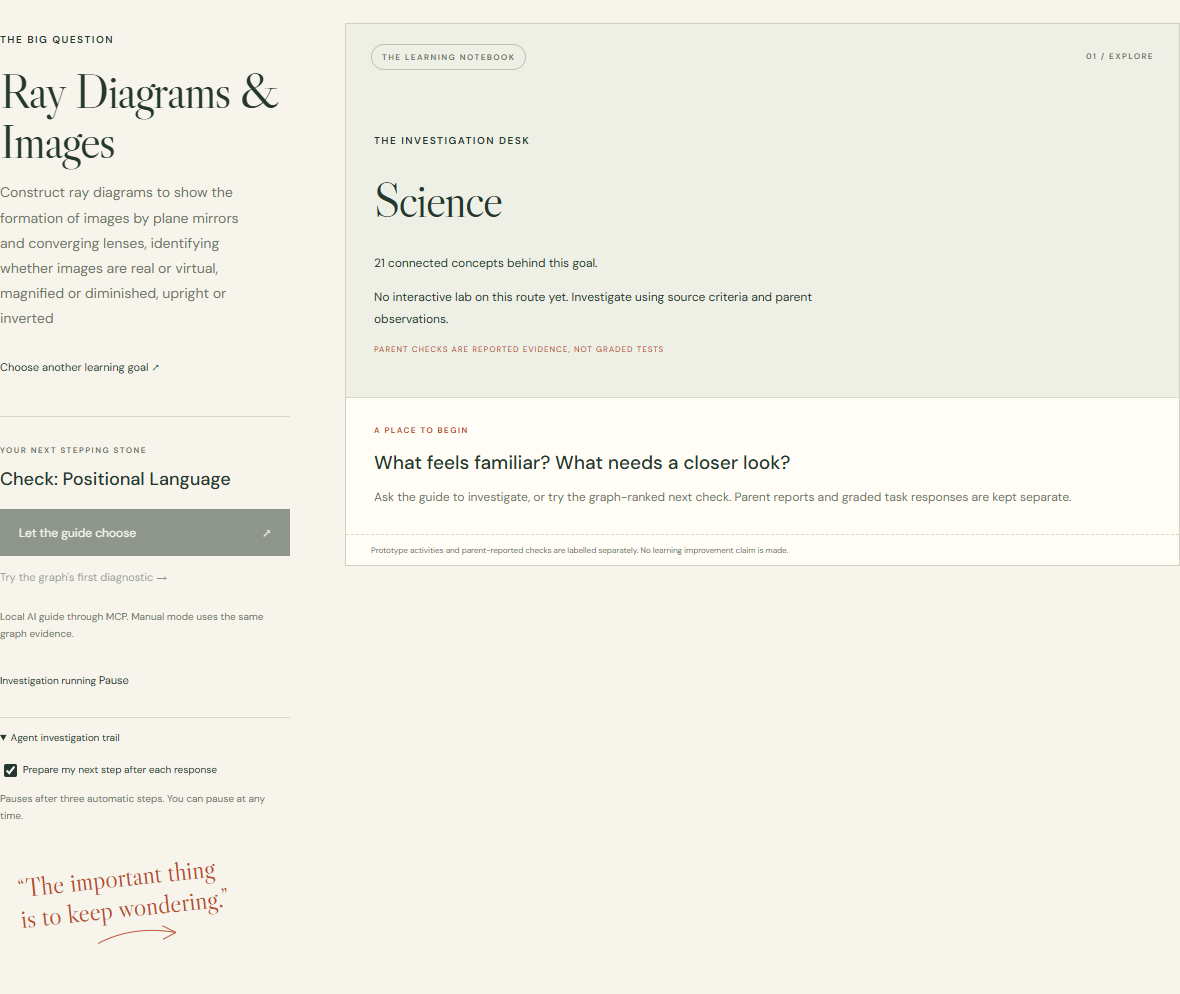
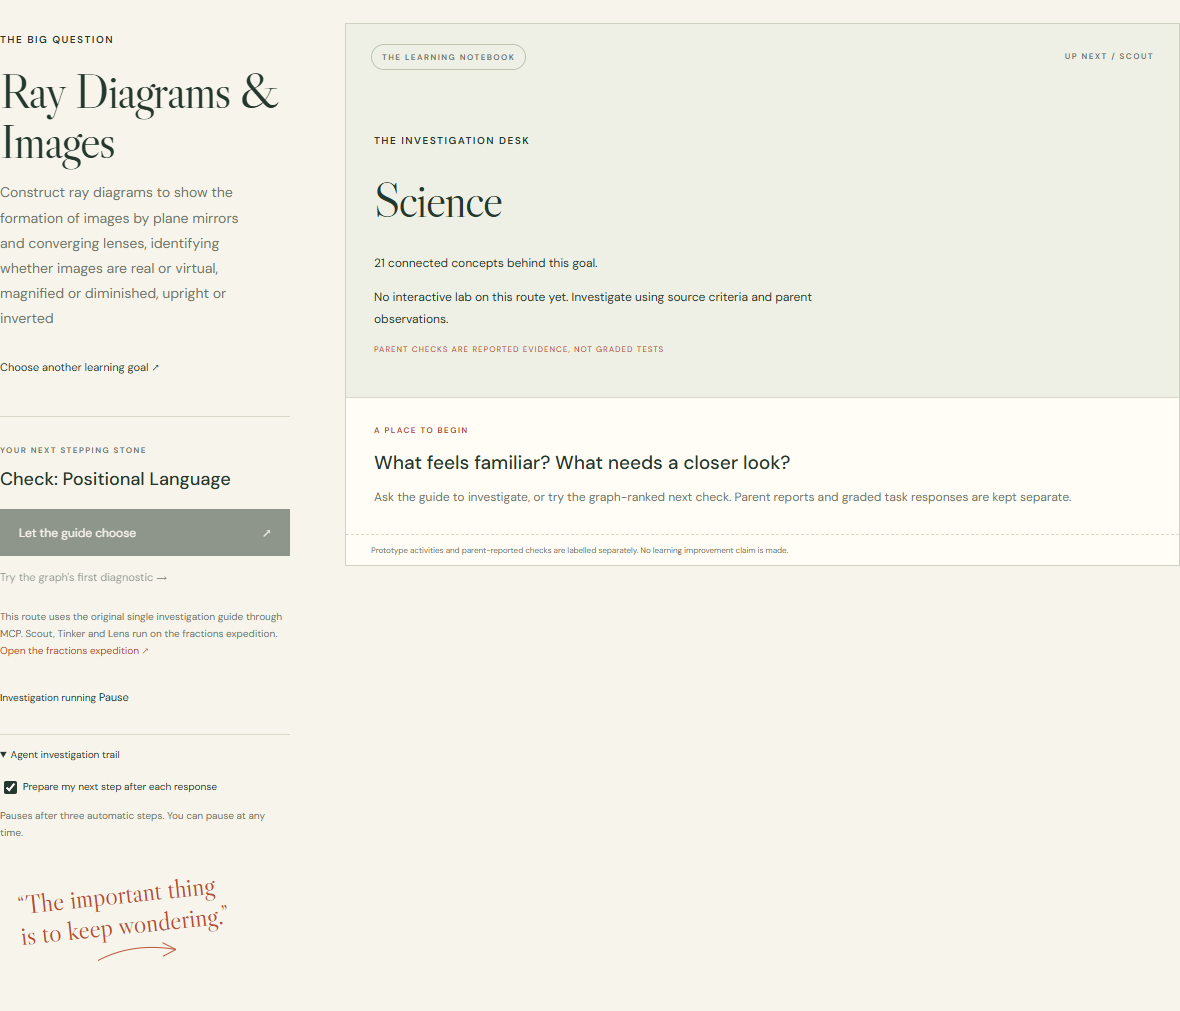
Fix stale UI text, number formatting, search ranking and the map focus on lesson routes

diff --git a/web/app.js b/web/app.js
@@ -53,12 +53,12 @@ function render(){
   $('reason').innerHTML=`<p><b>${esc(sc.title)}</b> was chosen by ${sc.chosen_by==='scout'?'Scout':'a manual click'} from ${sc.ranked.length} lessons FalkorDB ranked for this route.</p><p>${sc.reasons.map(esc).join('. ')}.</p><p class="witness">${sc.witness_concepts.map(esc).join(' → ')}</p><span class="source-label">LESSON CHECK / EXACT GRADING ON THE SERVER</span>`;
   $('candidates').innerHTML=sc.ranked.map(o=>`<div class="candidate">${o.graph_rank??'later'} / ${esc(o.title)} <small>${esc(o.concept_name)} · ${o.reasons.map(esc).join(' · ')}</small></div>`).join('');}
  drawGraph($('map-view'),mapPlan(),inspectConcept,{soft:$('show-soft').checked});
- const focus=plan.nodes.find(n=>n.id===selected?.concept);if(focus)inspectConcept(focus);
+ const focus=plan.nodes.find(n=>n.id===(lessonRoute()&&tutor?.concept||selected?.concept));if(focus)inspectConcept(focus);
  const queries=plan.graph_reasoning?.queries||[];
  $('query-info').innerHTML=`${plan.nodes.length} concepts in the complete hard closure. Reachability, coverage, shortest witnesses and ranking run in FalkorDB.<details class="native-queries"><summary>See the deciding queries and actual timings</summary>${queries.map(q=>`<div class="native-query"><b>${esc(q.name)}</b><small>${Number(q.server_ms).toFixed(3)} ms server / ${q.wall_ms} ms client wall / ${q.rows} rows</small><pre>${esc(q.cypher)}</pre><button class="text-button explain-button" data-explain>Show FalkorDB\u2019s execution plan</button><pre class="plan" hidden></pre></div>`).join('')}</details>`;
  $('evidence').textContent=JSON.stringify({graph:plan.graph,revision:plan.revision,fingerprint:plan.fingerprint,edges:plan.edges,soft_edges:plan.soft_edges,candidates:plan.candidates},null,2);
  $('manual').disabled=busy||!selected;$('agent').disabled=busy||!selected;atlas?.setRoute(plan);routeSummary();heroRoute();
- if(lessonRoute())renderLessonRoom();else{$('tutor-studio').hidden=true;$('tutor-queries').hidden=true;$('agent').innerHTML='Let the guide choose <span>↗</span>';$('manual').textContent='Try the graph\'s first diagnostic →';$('guide-note').textContent='Local AI guide through MCP. Manual mode uses the same graph evidence.';document.querySelectorAll('.autoguide,.autoguide+.small').forEach(x=>x.hidden=false);}
+ if(lessonRoute())renderLessonRoom();else{$('tutor-studio').hidden=true;$('tutor-queries').hidden=true;$('agent').innerHTML='Let the guide choose <span>↗</span>';$('manual').textContent='Try the graph\'s first diagnostic →';$('guide-note').innerHTML='This route uses the original single investigation guide through MCP. Scout, Tinker and Lens run on the fractions expedition. <button class="text-button inline-link" data-expedition>Open the fractions expedition \u2197</button>';$('guide-note').querySelector('[data-expedition]').onclick=()=>changeGoal(EXPEDITION);document.querySelectorAll('.autoguide,.autoguide+.small').forEach(x=>x.hidden=false);}
 }
 async function refresh(){plan=await api('plan');render();}
 function inspectConcept(n){
@@ -114,15 +114,15 @@ async function loadNotes(){const d=await api('notebook'),r=d.plan.route;
  $('parent-observations').innerHTML=(d.parent_observations||[]).map(o=>`<div class="observation"><span>↗</span><span>${esc(d.plan.nodes.find(n=>n.id===o.concept)?.name||o.concept)} / criterion ${o.criterion+1}</span><span>${esc(o.response)} / parent-reported</span></div>`).join('')||'<p class="small">No parent observations.</p>';
  $('trace').innerHTML=d.decisions.map(x=>`<div class="tool"><b>${esc(x.model)}</b> <small>${x.plan_fingerprint===d.plan.fingerprint?'current evidence revision':'historical decision / evidence revision changed'}</small><br>${esc(x.reason)}<pre>${esc(JSON.stringify(x.trace,null,2))}</pre>Runtime tokens: ${x.usage.input??'unknown'} input, ${x.usage.output??'unknown'} output. Digest ${esc(x.provenance?.model_digest?.slice(0,12)||'unknown')}.<details><summary>Unverified model rationale</summary>${esc(x.model_reason_unverified)}</details></div>`).join('')||'No investigation-agent decision recorded. Manual checks do not count as agent decisions.';
  if((d.role_decisions||[]).length&&!d.decisions.length)$('trace').innerHTML='';
- $('trace').insertAdjacentHTML('beforeend',(d.role_decisions||[]).map(x=>`<div class="tool"><b>${esc(ROLES[x.role]?.name||x.role)}</b> <small>${x.decisions.map(c=>`${c.chooser==='model'?'model '+esc(c.model):'rule-based, no model'} chose from ${c.options.length} options: ${esc(c.label)}${c.chooser==='model'&&c.rule_label!==undefined?(c.agrees_with_rule?' (same as the rule)':` (the rule would choose: ${esc(c.rule_label)})`):''}`).join(' / ')}</small><br>Tools exposed to this role: ${x.tools.map(esc).join(', ')}<details><summary>Tool trace and unverified model words</summary><pre>${esc(JSON.stringify(x.trace,null,2))}</pre>${x.decisions.map(c=>`<p>${esc(c.model_reason_unverified)}</p>`).join('')}</details></div>`).join(''));return d;
+ $('trace').insertAdjacentHTML('beforeend',(d.role_decisions||[]).map(x=>`<div class="tool"><b>${esc(ROLES[x.role]?.name||x.role)}</b> <small>${x.decisions.map(c=>`(${c.chooser==='model'?'local model '+esc(c.model):'rule-based, no model'}) chose from ${c.options.length} options: ${esc(c.label)}${c.chooser==='model'&&c.rule_label!==undefined?(c.agrees_with_rule?' (same as the rule)':` (the rule would choose: ${esc(c.rule_label)})`):''}`).join(' / ')}</small><br>Tools exposed to this role: ${x.tools.map(esc).join(', ')}<details><summary>${x.decisions.some(c=>c.chooser==='model')?'Tool trace and the model\u2019s own words (unverified)':'Tool trace and the rule\u2019s reason'}</summary><pre>${esc(JSON.stringify(x.trace,null,2))}</pre>${x.decisions.map(c=>`<p>${esc(c.model_reason_unverified)}</p>`).join('')}</details></div>`).join(''));return d;
 }
 async function loadCurriculum(){await ensureAtlas();const d=await api(`curriculum?subject=${encodeURIComponent(curriculum.subject)}&q=${encodeURIComponent(curriculum.q)}&offset=${curriculum.offset}`);
- $('subjects').innerHTML=[{name:'',count:1590},...d.subjects].map(s=>`<button class="subject ${s.name===curriculum.subject?'selected':''}" data-subject="${esc(s.name)}">${esc(s.name||'All subjects')} <small>${s.count}</small></button>`).join('');$('subjects').querySelectorAll('button').forEach(b=>b.onclick=()=>{curriculum.subject=b.dataset.subject;curriculum.offset=0;loadCurriculum().catch(e=>notice(e.message));});
+ $('subjects').innerHTML=[{name:'',count:1590},...d.subjects].map(s=>`<button class="subject ${s.name===curriculum.subject?'selected':''}" data-subject="${esc(s.name)}">${esc(s.name||'All subjects')} <small>${Number(s.count).toLocaleString()}</small></button>`).join('');$('subjects').querySelectorAll('button').forEach(b=>b.onclick=()=>{curriculum.subject=b.dataset.subject;curriculum.offset=0;loadCurriculum().catch(e=>notice(e.message));});
  $('curriculum-count').textContent=`${Number(d.total).toLocaleString()} matching concept${d.total===1?'':'s'}. Each card says whether its goal has a lesson, a prototype task or parent checks.`;
  $('curriculum-grid').innerHTML=d.concepts.map(c=>`<button class="curriculum-card" data-goal="${esc(c.id)}"><span class="eyebrow">${esc(c.subject)}</span><h3>${esc(c.name)}</h3><p>${c.age_start!==null?`Source ages ${c.age_start} to ${c.age_end}`:'No source age range'}</p><span class="source-label">${c.lesson_available?'INTERACTIVE LESSON + TRANSFER CHECKS':c.activity_available?'PROTOTYPE TASK + PARENT CHECKS':c.criterion_count===0?'MAP AVAILABLE / SOURCE CRITERIA MISSING':'SOURCE-BACKED GUIDED INVESTIGATION'}</span><span class="card-arrow">Choose this goal ↗</span></button>`).join('')||'<p>No concepts match. Try a broader search.</p>';
- $('curriculum-grid').querySelectorAll('[data-goal]').forEach(b=>b.onclick=()=>changeGoal(b.dataset.goal));$('previous').disabled=curriculum.offset===0;$('more').disabled=curriculum.offset+24>=d.total;$('page-label').textContent=d.total?`${curriculum.offset+1} to ${Math.min(curriculum.offset+24,d.total)} of ${d.total}`:'No matches';
+ $('curriculum-grid').querySelectorAll('[data-goal]').forEach(b=>b.onclick=()=>changeGoal(b.dataset.goal));$('previous').disabled=curriculum.offset===0;$('more').disabled=curriculum.offset+24>=d.total;$('page-label').textContent=d.total?`${(curriculum.offset+1).toLocaleString()} to ${Math.min(curriculum.offset+24,d.total).toLocaleString()} of ${Number(d.total).toLocaleString()}`:'No matches';
 }
-async function changeGoal(id){if(busy)return;try{plan=await api('goal',{concept_id:id});agentMode=false;automatic=0;emptyTask();tutor=null;await refreshTutor();render();tab('lab');notice('Goal selected. The route uses actual source prerequisites. Parent checks are not graded tests.');}catch(e){notice(e.message);}}
+async function changeGoal(id){if(busy)return;try{plan=await api('goal',{concept_id:id});agentMode=false;automatic=0;emptyTask();tutor=null;await refreshTutor();render();tab('lab');notice(lessonRoute()?'Goal selected. FalkorDB computed the route from the source prerequisites; its lessons run the Scout, Tinker and Lens loop.':'Goal selected. The route uses actual source prerequisites. Parent checks are not graded tests.');}catch(e){notice(e.message);}}
 let timer;$('curriculum-search').oninput=()=>{clearTimeout(timer);timer=setTimeout(()=>{curriculum.q=$('curriculum-search').value;curriculum.offset=0;loadCurriculum().catch(e=>notice(e.message));},250);};
  $('previous').onclick=()=>{curriculum.offset=Math.max(0,curriculum.offset-24);loadCurriculum().catch(e=>notice(e.message));};$('more').onclick=()=>{curriculum.offset+=24;loadCurriculum().catch(e=>notice(e.message));};
 let searchTimer;$('search').oninput=()=>{clearTimeout(searchTimer);searchTimer=setTimeout(async()=>{try{const d=await api('search?q='+encodeURIComponent($('search').value));$('search-results').innerHTML=d.concepts.map(c=>`<button class="search-result" data-goal="${esc(c.id)}"><span>${esc(c.name)}</span><small>${esc(c.subject)} / choose this goal ↗</small></button>`).join('');$('search-results').querySelectorAll('[data-goal]').forEach(b=>b.onclick=()=>changeGoal(b.dataset.goal));}catch(e){notice(e.message);}},250);};
@@ -180,6 +180,7 @@ function renderLessonRoom(){
  renderInvestigation($('investigation-panel'),tutor.investigation,tutor.episode);renderRoles($('role-strip'),roleView);renderStations($('stations'),tutor.stations,tutor.concept);renderTutorQueries($('tutor-queries'),tutor);
  const due=tutor.due_role&&ROLES[tutor.due_role];
  $('next').innerHTML=`<span class="label">${tutor.task?'WAITING FOR YOUR ANSWER':'WHO IS UP NEXT'}</span><h3>${tutor.task?esc(tutor.task.activity.title):due?`${due.name}, ${due.job}`:'Review the route'}</h3><p class="small">${due&&!tutor.task?esc(due.does):''}</p>`;
+ if(!tutor.task)$('phase').textContent=due?`UP NEXT / ${due.name.toUpperCase()}`:'01 / EXPLORE';
  $('tutor-note').innerHTML=tutor.history.length?`<b>Latest step.</b> ${esc(tutor.history.at(-1).note)}`:'Scout reads the FalkorDB route first. Nothing is recorded until you answer.';
  $('agent').disabled=$('manual').disabled=busy||Boolean(tutor.task)||!due;
  if(!tutor.task&&!busy&&!$('task').querySelector('#feedback .feedback'))$('task').innerHTML=`<p class="eyebrow">${due?esc(due.name.toUpperCase())+' IS UP NEXT':'A PLACE TO PAUSE'}</p><h3>${due?esc(due.does):'No permitted step remains on this route right now.'}</h3><p>Each role runs in its own MCP server with only its own tools. Grading and recording are code, not agents. A correct answer here is evidence for one task, not proof of mastery.</p>`;

diff --git a/web/index.html b/web/index.html
@@ -5,7 +5,7 @@
 <main>
 <section class="intro"><div><p class="eyebrow">THE CURIOSITY NOTEBOOK <span id="age-band">YOUR OWN LEARNING ROUTE</span></p><h1>Big discoveries.<br><em>Small beginnings.</em></h1><p class="lede">Every new idea grows from something you already know.<br>Let's find your next little discovery.</p></div><aside class="hero-panel" aria-label="The connected curriculum, computed live"><p class="eyebrow">THE CURRICULUM, AS A GRAPH</p><div class="hero-figures" id="hero-figures"><div><b>1,590</b><span>ideas a child can learn</span></div><div><b>3,221</b><span>links saying what comes first</span></div><div><b>&nbsp;</b><span>&nbsp;</span></div><div><b>&nbsp;</b><span>&nbsp;</span></div></div><div class="hero-route" id="hero-route"></div><button class="text-button hero-expedition" data-expedition>Try the fractions expedition: Scout checks, Tinker teaches, Lens tries something new ↗</button><p class="hero-source" id="hero-source">Live from FalkorDB</p></aside><div class="stamp"><svg viewBox="0 0 100 100" aria-hidden="true"><path d="M50 8C44 26 23 42 23 61a27 27 0 0 0 54 0C77 42 56 26 50 8Z"/><path d="M34 62q0 16 15 17M50 2v-5M85 25l8-5M15 25l-8-5"/></svg><span>LOOK CLOSER.<br>ASK WHY.</span></div></section>
 <div id="notice" role="status" hidden></div>
-<section id="curriculum" class="tab" hidden><div class="track"><div class="section-rule"><span>MEET THE AGENTS</span><span>TRACK 01 · AGENTS THAT ACT ON CONNECTED DATA</span></div><div class="agent-row"><div class="agent-card"><img src="/static/assets/agents/scout.svg" alt="" width="64" height="64"><div><b>Scout</b><small>the pathfinder</small><p>Walks the prerequisite graph and picks what to check next.</p><span class="uses">Uses: route walks, coverage, shortest paths</span></div></div><div class="agent-card"><img src="/static/assets/agents/tinker.svg" alt="" width="64" height="64"><div><b>Tinker</b><small>the experiment guide</small><p>Investigates the response and chooses a way to teach.</p><span class="uses">Uses: the mistake recorded in the graph</span></div></div><div class="agent-card"><img src="/static/assets/agents/lens.svg" alt="" width="64" height="64"><div><b>Lens</b><small>the challenger</small><p>Asks the same idea again, in a new way.</p><span class="uses">Uses: the picture styles each lesson offers</span></div></div></div><div class="agent-actions"><button class="primary" data-expedition>Watch them in the fractions expedition <span>↗</span></button><p class="small">Each agent runs in its own MCP server with only its own tools. Grading and recording are plain code.</p></div><div class="track-checks" aria-label="Track 1 focus areas"><button class="track-chip" data-tab="map">✓ Multi-hop graph walks</button><button class="track-chip" data-tab="map">✓ Graph queries as agent tools</button><button class="track-chip" data-tab="lab">✓ Tool choice through MCP</button><button class="track-chip" data-expedition>✓ Acts on what the graph shows</button><button class="track-chip" data-tab="notes">✓ Explains every step</button></div><p class="small track-note">Runs on a local model (qwen2.5:7b). A no-model mode makes the same moves by a fixed rule and is labelled wherever it is used.</p></div><div class="section-rule"><span>00 / PICK A QUESTION WORTH FOLLOWING</span><span>1,590 CONNECTED CONCEPTS</span></div><div class="curriculum-heading"><h2>A whole world<br><em>to wonder about.</em></h2><p>Choose any learning goal and FalkorDB maps every foundation behind it. Seven fraction lessons run the full Scout, Tinker and Lens loop, the water route has five prototype tasks, and every other goal uses parent checks built from the source’s own criteria.</p></div><div class="curriculum-atlas"><div class="atlas-top"><span class="eyebrow">THE CONNECTED CURRICULUM</span><div><button id="atlas-out" aria-label="Zoom out">−</button><button id="atlas-in" aria-label="Zoom in">+</button><button id="atlas-reset">Reset view</button></div></div><canvas id="atlas" aria-label="Interactive overview of 1,590 curriculum concepts. The cards below provide keyboard-accessible goal selection."></canvas><div id="atlas-route" class="atlas-route"></div><div id="atlas-selection">Select a dot to inspect a concept. Terracotta highlights the current goal's hard prerequisite route.</div><div id="featured" class="featured"></div><p class="small">1,590 concepts · 3,221 source connections. Drag to pan. Positions are a display layout, not ability or importance scores.</p></div><div id="subjects" class="subject-tabs"></div><label class="search-label" for="curriculum-search">Find a learning goal</label><input id="curriculum-search" class="search-input" placeholder="Fractions, rainforests, sentences..."><p id="curriculum-count" class="small"></p><div id="curriculum-grid" class="curriculum-grid"></div><div class="pagination"><button id="previous" class="text-button">← Previous</button><span id="page-label"></span><button id="more" class="text-button">Next page →</button></div></section>
+<section id="curriculum" class="tab" hidden><div class="track"><div class="section-rule"><span>MEET THE AGENTS</span><span>TRACK 01 · AGENTS THAT ACT ON CONNECTED DATA</span></div><div class="agent-row"><div class="agent-card"><img src="/static/assets/agents/scout.svg" alt="" width="64" height="64"><div><b>Scout</b><small>the pathfinder</small><p>Walks the prerequisite graph and picks what to check next.</p><span class="uses">Uses: route walks, coverage, shortest paths</span></div></div><div class="agent-card"><img src="/static/assets/agents/tinker.svg" alt="" width="64" height="64"><div><b>Tinker</b><small>the experiment guide</small><p>Investigates the response and chooses a way to teach.</p><span class="uses">Uses: the mistake recorded in the graph</span></div></div><div class="agent-card"><img src="/static/assets/agents/lens.svg" alt="" width="64" height="64"><div><b>Lens</b><small>the challenger</small><p>Asks the same idea again, in a new way.</p><span class="uses">Uses: the picture styles each lesson offers</span></div></div></div><div class="agent-actions"><button class="primary" data-expedition>Watch them in the fractions expedition <span>↗</span></button><p class="small">Each agent runs in its own MCP server with only its own tools. Grading and recording are plain code.</p></div><div class="track-checks" aria-label="Track 1 focus areas"><button class="track-chip" data-tab="map">✓ Multi-hop graph walks</button><button class="track-chip" data-tab="map">✓ Graph queries as agent tools</button><button class="track-chip" data-tab="lab">✓ Tool choice through MCP</button><button class="track-chip" data-expedition>✓ Acts on what the graph shows</button><button class="track-chip" data-tab="notes">✓ Explains every step</button></div><p class="small track-note">Runs on a local model (qwen2.5:7b). A no-model mode chooses by a fixed rule instead, and is labelled wherever it is used.</p></div><div class="section-rule"><span>00 / PICK A QUESTION WORTH FOLLOWING</span><span>1,590 CONNECTED CONCEPTS</span></div><div class="curriculum-heading"><h2>A whole world<br><em>to wonder about.</em></h2><p>Choose any learning goal and FalkorDB maps every foundation behind it. Seven fraction lessons run the full Scout, Tinker and Lens loop, the water route has five prototype tasks, and every other goal uses parent checks built from the source’s own criteria.</p></div><div class="curriculum-atlas"><div class="atlas-top"><span class="eyebrow">THE CONNECTED CURRICULUM</span><div><button id="atlas-out" aria-label="Zoom out">−</button><button id="atlas-in" aria-label="Zoom in">+</button><button id="atlas-reset">Reset view</button></div></div><canvas id="atlas" aria-label="Interactive overview of 1,590 curriculum concepts. The cards below provide keyboard-accessible goal selection."></canvas><div id="atlas-route" class="atlas-route"></div><div id="atlas-selection">Select a dot to inspect a concept. Terracotta highlights the current goal's hard prerequisite route.</div><div id="featured" class="featured"></div><p class="small">1,590 concepts · 3,221 source connections. Drag to pan. Positions are a display layout, not ability or importance scores.</p></div><div id="subjects" class="subject-tabs"></div><label class="search-label" for="curriculum-search">Find a learning goal</label><input id="curriculum-search" class="search-input" placeholder="Fractions, rainforests, sentences..."><p id="curriculum-count" class="small"></p><div id="curriculum-grid" class="curriculum-grid"></div><div class="pagination"><button id="previous" class="text-button">← Previous</button><span id="page-label"></span><button id="more" class="text-button">Next page →</button></div></section>
 <section id="lab" class="tab">
 <div class="section-rule"><span>01 / TODAY'S EXPEDITION</span><span><span id="goal-subject">SCIENCE · MATTER & MATERIALS</span></span></div>
 <div class="room">

diff --git a/web/tutor.js b/web/tutor.js
@@ -155,10 +155,11 @@ export function renderInvestigation(el, investigation, episode){
  const body=episodeHtml(episode);
  if(!body&&!investigation?.observation){el.innerHTML='';return;}
  const st=episode?.status,open=st&&(st.required||st.tried_strategies.length||st.probe_outcome);
- const strategies=investigation?.strategies||[];
+ const tried=new Set((st?.tried_strategies||[]).map(x=>x.id));
+ const eligible=(investigation?.strategies||[]).filter(s=>!tried.has(s.id));
  el.innerHTML=`<details class="investigation-card"${open?' open':''}><summary>For a grown-up: why this next?</summary>
  ${body}
- ${strategies.length&&!st?.required?`<p><b>Teaching strategies connected to the latest mistake:</b> ${strategies.map(s=>esc(s.title)).join('; ')}</p>`:''}
+ ${eligible.length&&!st?.required?`<p><b>Strategies still eligible for the latest mistake:</b> ${eligible.map(s=>esc(s.title)).join('; ')}</p>`:''}
  <p class="small">These are possible explanations to check, not diagnoses. Every line above is read from this notebook's graph. <a href="#notes">See the full field notes</a>.</p></details>`;
  el.querySelector('a').onclick=e=>{e.preventDefault();document.querySelector('nav [data-tab="notes"]').click();};
 }

diff --git a/web/style.css b/web/style.css
@@ -161,3 +161,5 @@ footer.night .night-line,footer.night .brand-name{text-shadow:0 0 14px #1f2e26,0
 .episode-flag.excluded{background:#f8ecd9;border-left-color:var(--orange)}
 .episode-flag.inconclusive{background:#eef0f5;border-left-color:#9aa6c4}
 .episode-notes{margin:18px 0}
+
+.inline-link{display:inline;padding:0;font-size:inherit;color:var(--orange)}

diff --git a/backend/app.py b/backend/app.py
@@ -143,7 +143,9 @@ def search(q:str=''):
     g=db().select_graph(BASE)
     try:
         rows=g.ro_query("CALL db.idx.fulltext.queryNodes('Concept',$q) YIELD node,score "
-                        'RETURN node.id,node.name,node.subject ORDER BY score DESC,node.name LIMIT 20',{'q':fulltext_terms(q)}).result_set
+                        'WITH node,score,size([w IN $words WHERE toLower(node.name) CONTAINS w]) AS in_name '
+                        'RETURN node.id,node.name,node.subject ORDER BY in_name DESC,score DESC,node.name LIMIT 20',
+                        {'q':fulltext_terms(q),'words':fulltext_terms(q).replace('*','').split()}).result_set
     except RedisError:
         raise
     except Exception:
@@ -174,11 +176,12 @@ def curriculum(subject:str='',offset:int=0,q:str=''):
     subjects=g.ro_query('MATCH (c:Concept) RETURN c.subject,count(c) ORDER BY c.subject').result_set
     from .core import fulltext_terms
     terms=fulltext_terms(q) if len(q.strip())>=2 else ''
-    params={'subject':subject[:80],'q':terms,'offset':max(0,min(offset,1590))}
+    params={'subject':subject[:80],'q':terms,'offset':max(0,min(offset,1590)),'words':terms.replace('*','').split()}
     if terms:
         # Ranked by FalkorDB's full-text score over names and descriptions, with stemming.
-        source="CALL db.idx.fulltext.queryNodes('Concept',$q) YIELD node,score WITH node AS c,score WHERE ($subject=\"\" OR c.subject=$subject) "
-        order='ORDER BY score DESC,c.name,c.id'
+        source=("CALL db.idx.fulltext.queryNodes('Concept',$q) YIELD node,score WITH node AS c,score WHERE ($subject=\"\" OR c.subject=$subject) "
+                "WITH c,score,size([w IN $words WHERE toLower(c.name) CONTAINS w]) AS in_name ")
+        order='ORDER BY in_name DESC,score DESC,c.name,c.id'
     else:
         source='MATCH (c:Concept) WHERE ($subject="" OR c.subject=$subject) '
         order='ORDER BY c.subject,c.name,c.id'

diff --git a/backend/tutor/fractions.py b/backend/tutor/fractions.py
@@ -283,7 +283,7 @@ def grade(p, response):
         same = f', which is the same point as {fs(want)}' if p['t'] != p['b'] else ''
         return {'correct': True, 'value': fs(got), 'difficulty': None,
                 'explanation': f'Yes. That point is {gaps(tick)} of 1/{p["t"]} from 0{same}.'}
-    return {'correct': False, 'value': f'{tick}/{p["t"]}', 'difficulty': 'placement',
+    return {'correct': False, 'value': f'{tick}/{p["t"]}' if tick else '0', 'difficulty': 'placement',
             'explanation': f'That point is {gaps(tick)} of 1/{p["t"]} from 0, which is {fs(got) if tick else "0"}. '
                            f'{fs(want)} is {gaps(p["a"] * p["t"] // p["b"])} along.'}
 
